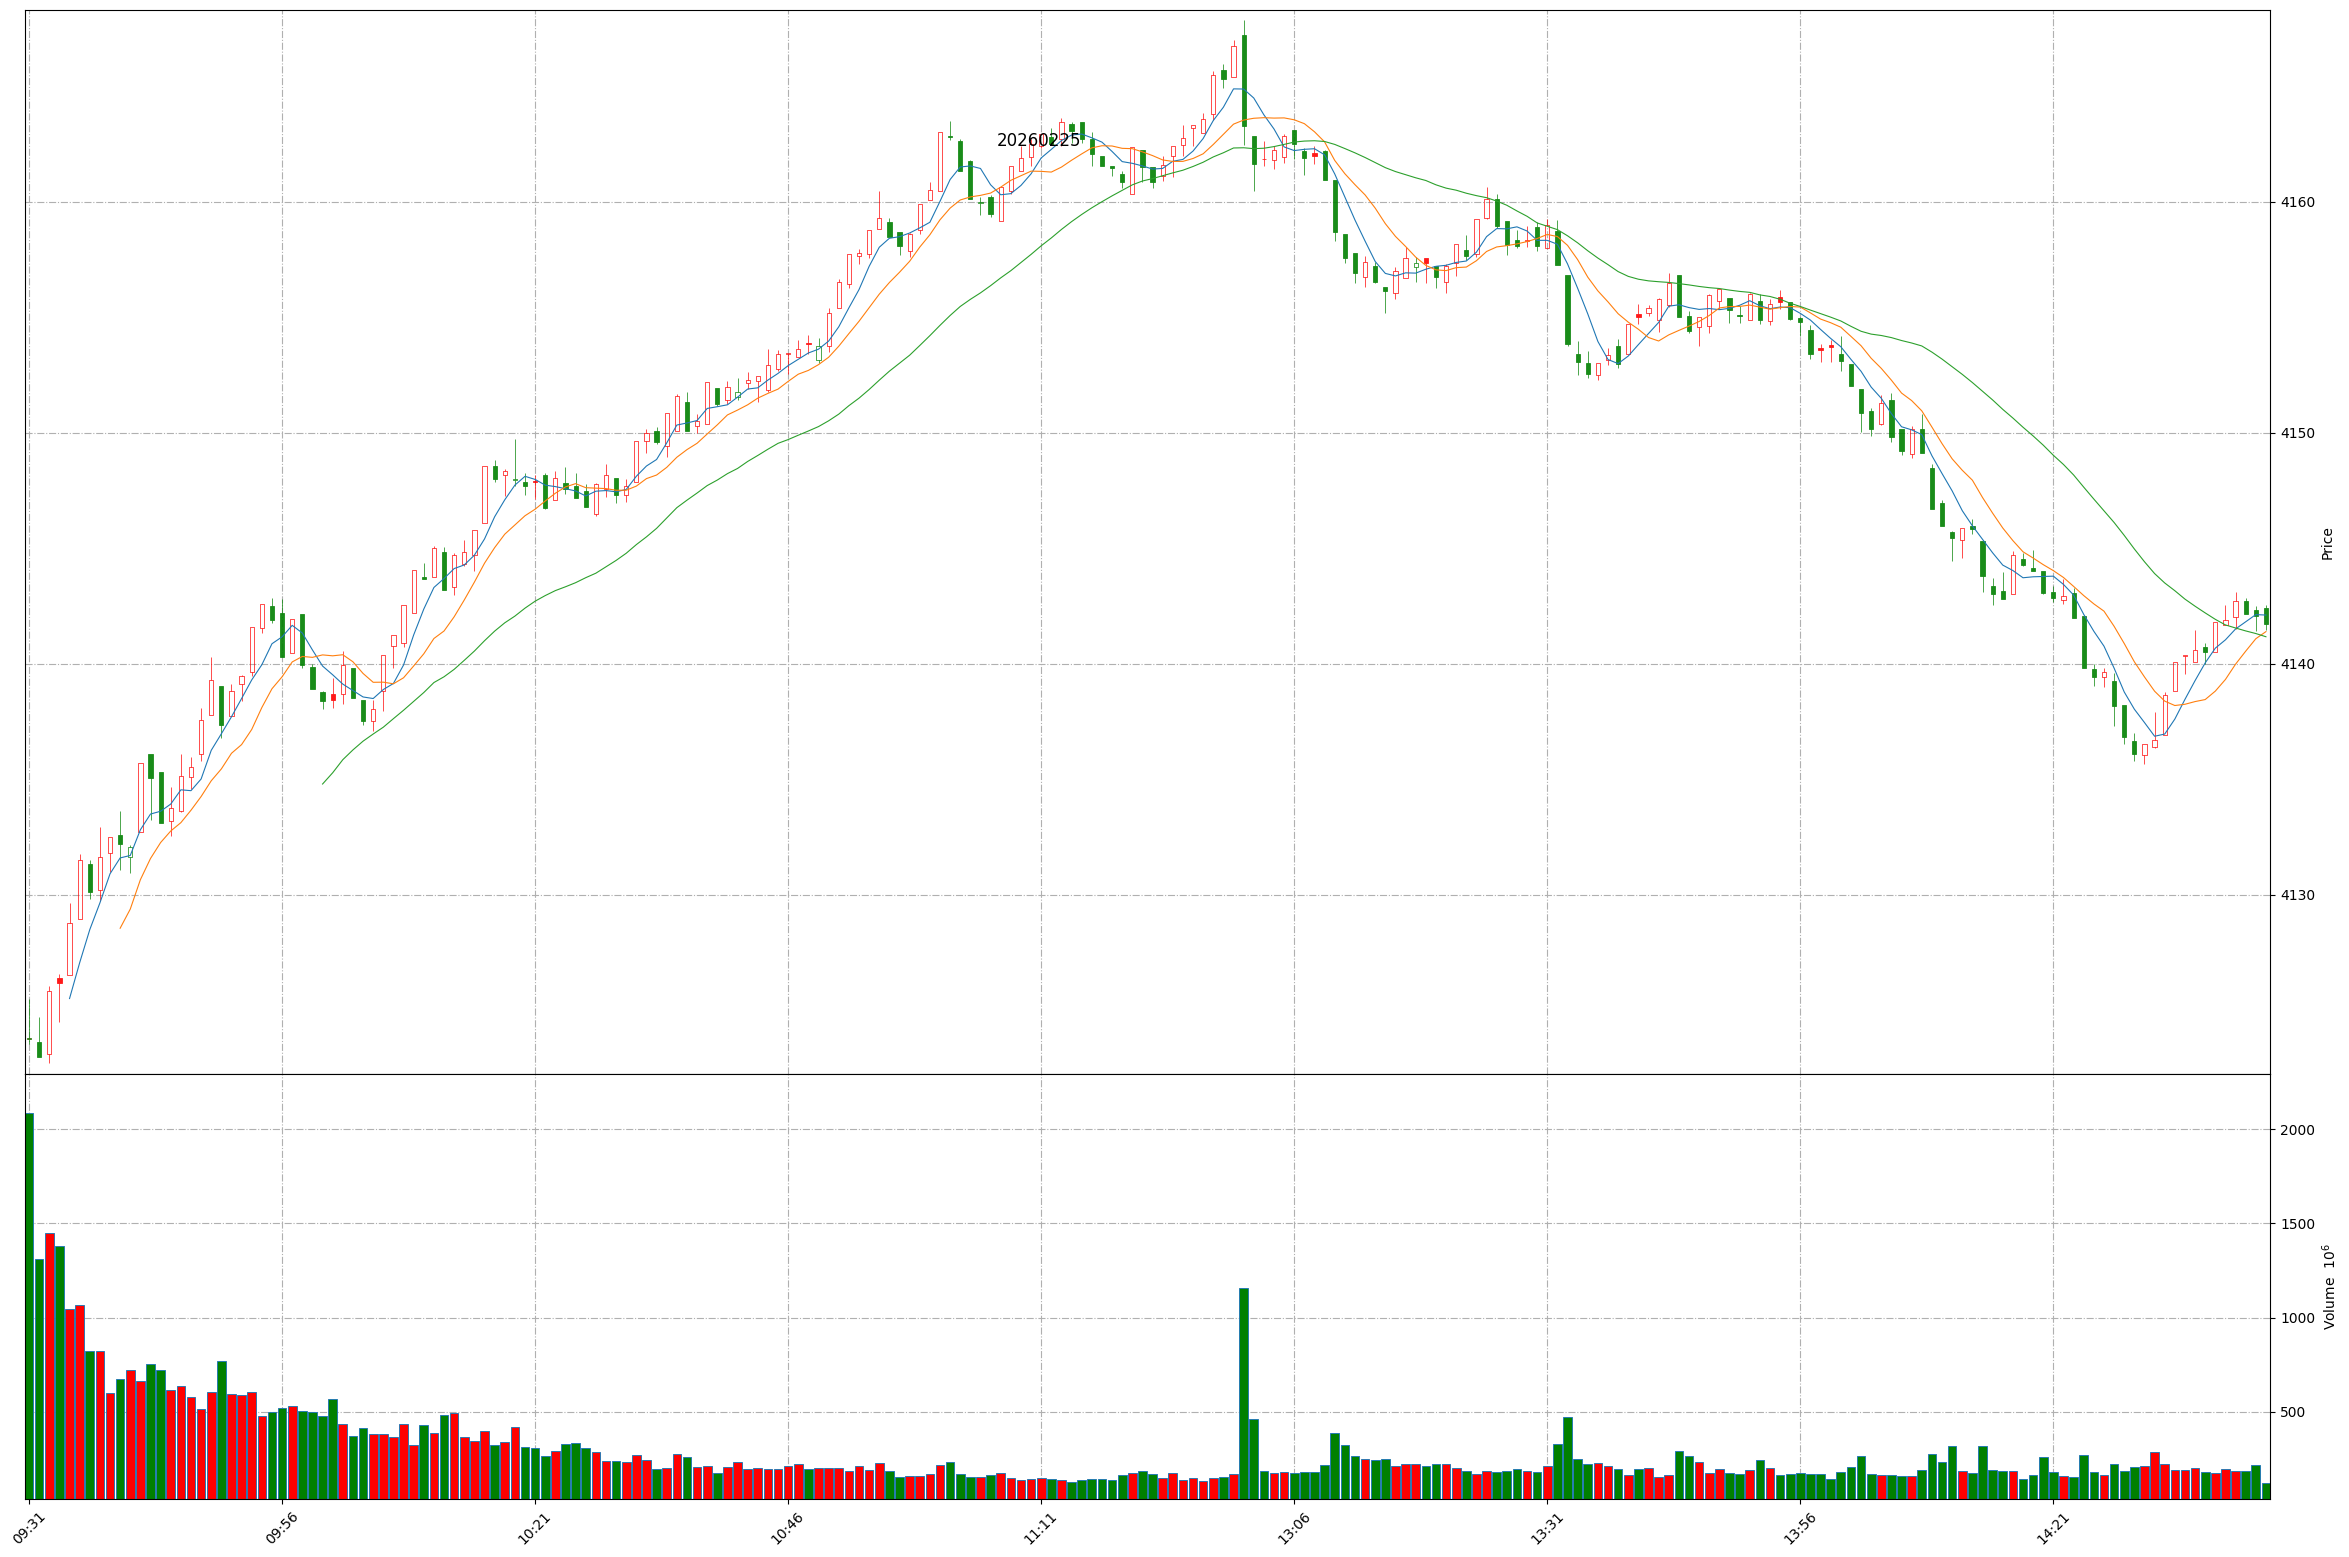
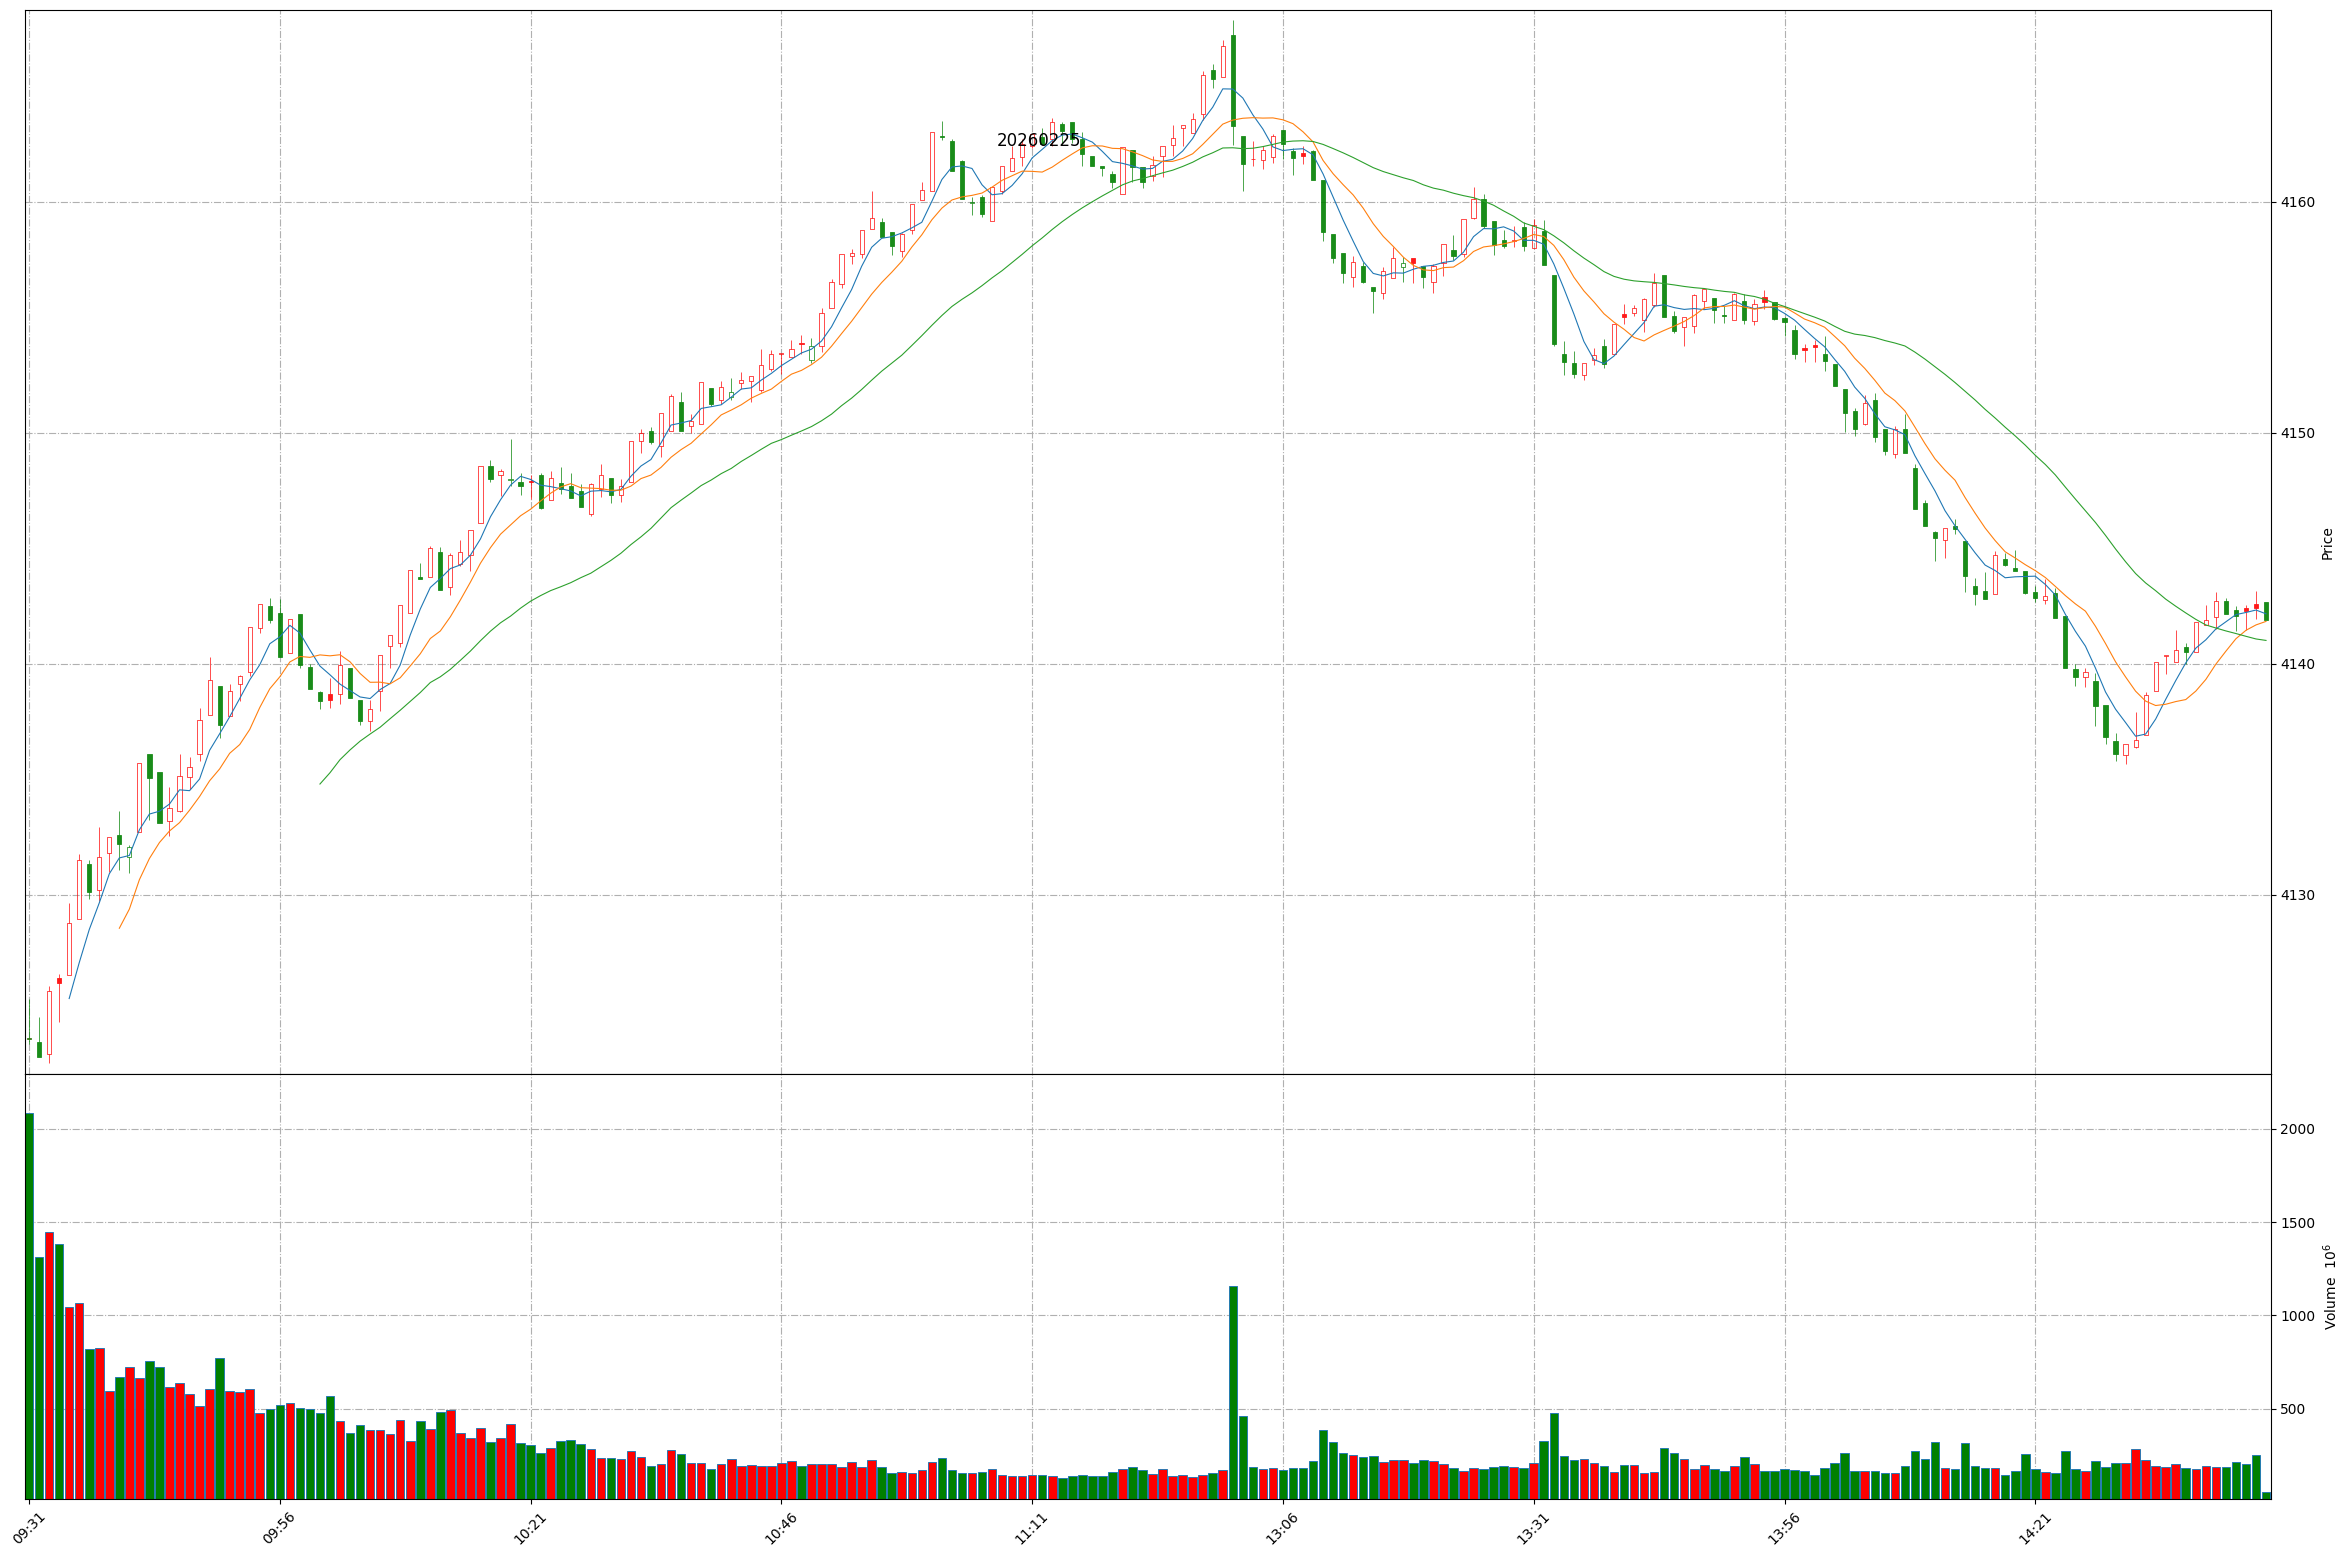
Github action update at 2026-02-25 14:43:28.

diff --git a/README.md b/README.md
@@ -1,11 +1,11 @@
 
 # Daily-A-share-market-quotes 每日 A 股指数（5min 更新）- 20260225
 
-### 上证指数 20260225 14:41
+### 上证指数 20260225 14:43
 ![](./fig/2026/2/20260225-sh000001.png)
 
-### 深证成指 20260225 14:41
+### 深证成指 20260225 14:43
 ![](./fig/2026/2/20260225-sz399001.png)
 
-### 北证50 20260225 14:41
+### 北证50 20260225 14:43
 ![](./fig/2026/2/20260225-bj899050.png)
